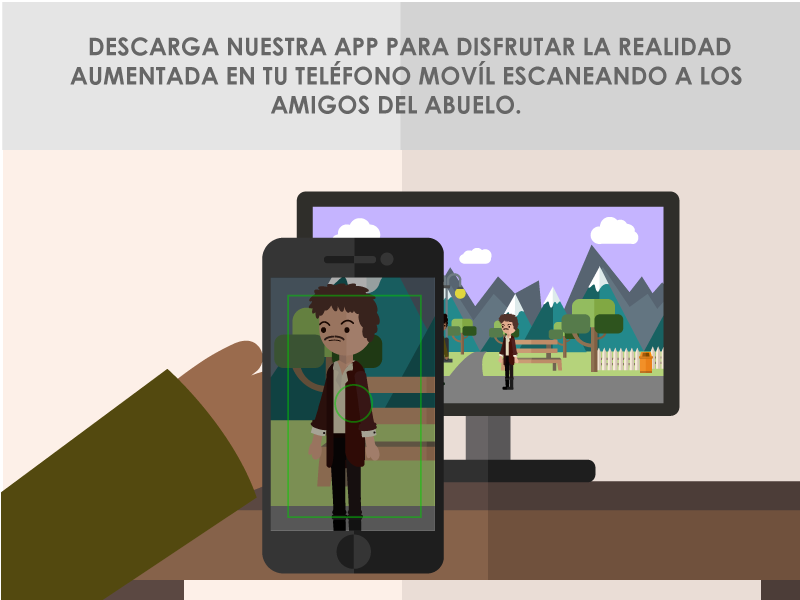
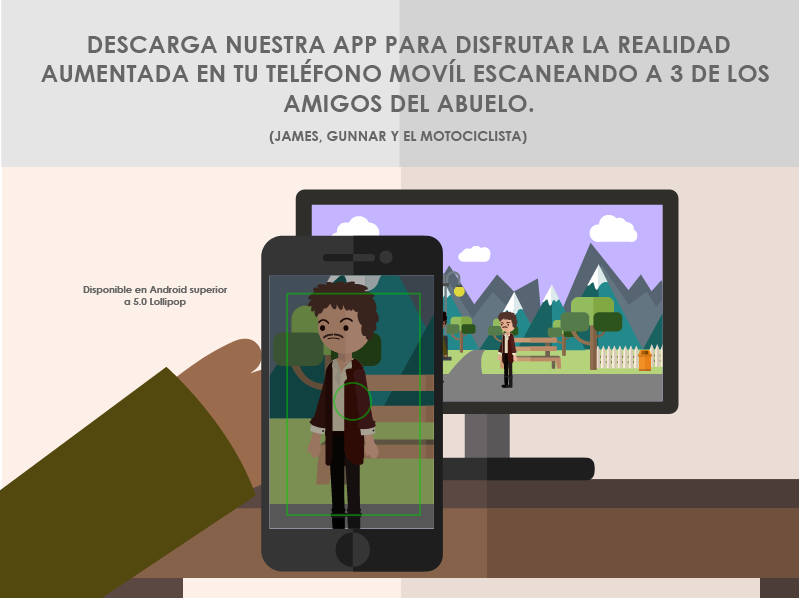
RA implementada

diff --git a/sobre_pedal/css/estilos.css b/sobre_pedal/css/estilos.css
@@ -368,6 +368,25 @@ animation-iteration-count: infinite;
 
 
 
+.btnRA{
+	 color: gray;
+    font-size: 46px;
+    position: relative;
+    z-index: 4;
+    right: 668px;
+    bottom: 63px;
+    opacity: 0.6;
+
+
+}
+
+.btnapk:hover{
+
+	color: #fc8000 !important;
+}
+
+
+
 #seccion2{
 	width: 12.4%;
 	height: 100vh;

diff --git a/sobre_pedal/js/codigo.js b/sobre_pedal/js/codigo.js
@@ -89,6 +89,7 @@ function personajesCaminando(){
   $('.tonelli').css({"display":"none"});
   $('.peter').css({"display":"none"});
   $('.james').css({"display":"none"});
+  $('.gunnarSprites2').css({"display":"none"});
   } 
   
 }

diff --git a/index.php b/index.php
@@ -96,7 +96,15 @@ $row7 = mysqli_fetch_array($result);
 
 
 		<div id="avisoRA">
-			<img src="sobre_pedal/img/RA_diseno.png">
+			<div style=" position: absolute;">
+			<img src="sobre_pedal/img/RA_diseno.png" style="z-index: 1;">
+
+			<i class="btnRA fas fa-download"></i>
+			<a href="https://www.mediafire.com/file/fv5343lhx85sez3/sobrepedal.apk/file" class="btn btnapk" style=" margin-left: 76px; font-size: 20px; color: gray; position: relative; bottom: 356px;}">
+			Descargar APK </a>
+
+			</div>
+			
 			<i class="cerrar fas fa-times-circle"></i>
 
 		</div>
